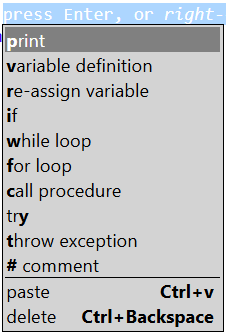
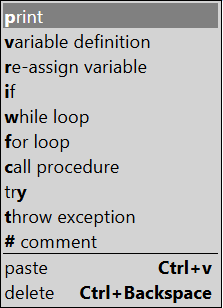
PNGs and corrected accordion.js

diff --git a/src/documentation/accordion.js b/src/documentation/accordion.js
@@ -1,11 +1,13 @@
-  var accordions = document.getElementsByclassName("acc-title");
-  for (const item of accordions) {
-    item.addEventListener("click", function() {
-      item.parentElement.classList.toggle("active");
-    });
-    item.addEventListener("keydown", (event) => {
-      if (event.key === "Enter") {
-        item.parentElement.classList.toggle("active");
-      }
-    });
-  }
+document.addEventListener("DOMContentLoaded", () => {
+ var accordions = document.getElementsByClassName("acc-title");
+ for (const item of accordions) {
+   item.addEventListener("click", function() {
+     item.parentElement.classList.toggle("active");
+   });
+   item.addEventListener("keydown", (event) => {
+     if (event.key === "Enter") {
+       item.parentElement.classList.toggle("active");
+     }
+   });
+ }
+});